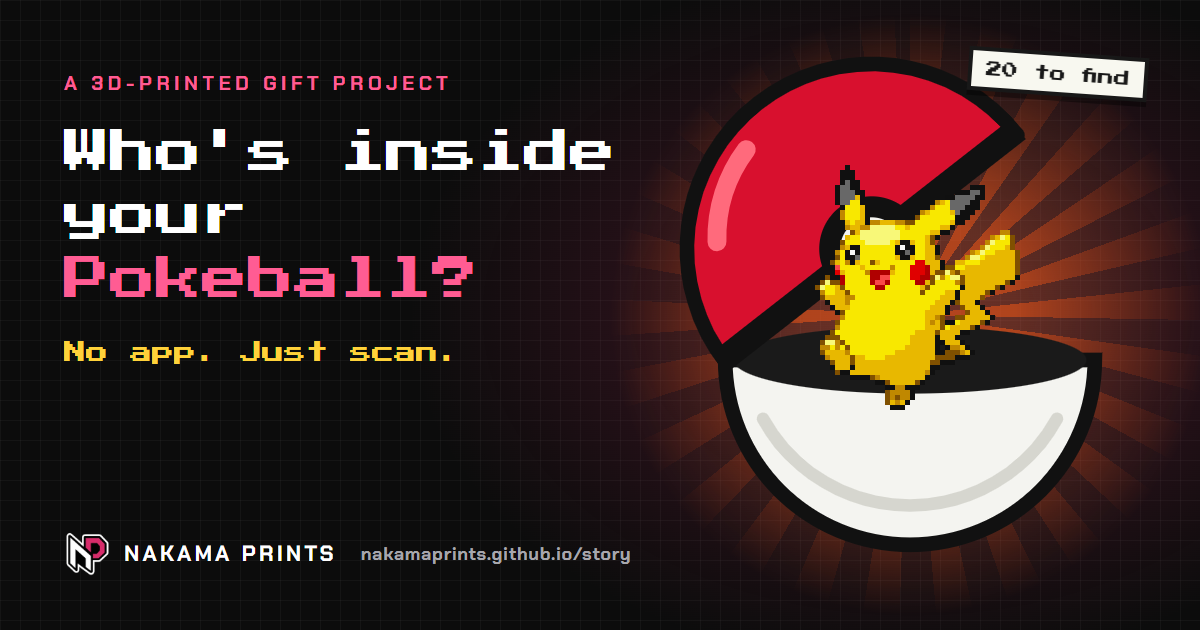
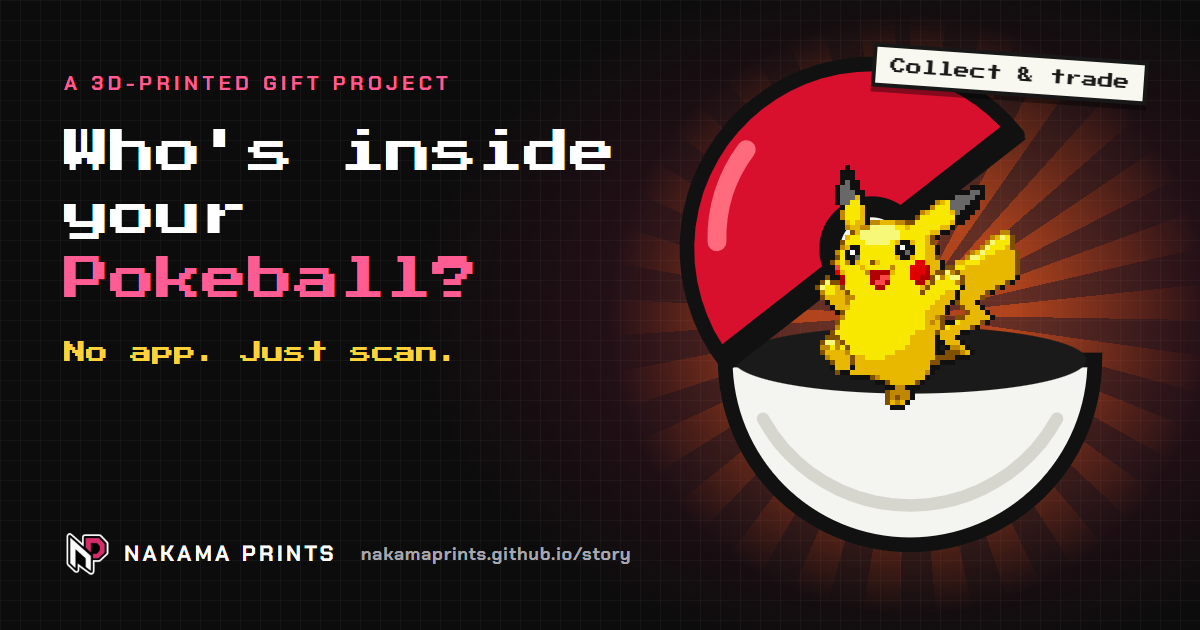
Story page: lead with the reel, drop the technical section, no fixed counts

Changed region(s): [[0.7092, 0.0603, 0.9558, 0.181]]

diff --git a/story/index.html b/story/index.html
@@ -15,7 +15,7 @@
   <meta property="og:site_name" content="Nakama Prints" />
   <meta property="og:url" content="https://nakamaprints.github.io/story/" />
   <meta property="og:title" content="Who's inside your Pokeball? No app. Just scan." />
-  <meta property="og:description" content="I 3D-print Pokeballs for friends and family. Scan the card, point at the coin inside, and an 8-bit Pokémon pops out in AR. Collect all 20 and trade the rest." />
+  <meta property="og:description" content="I 3D-print Pokeballs for friends and family. Scan the card, point at the coin inside, and an 8-bit Pokémon pops out in AR. Collect them all, hunt the rare ones and trade with friends." />
   <meta property="og:image" content="https://nakamaprints.github.io/story/og.png" />
   <meta property="og:image:width" content="1200" />
   <meta property="og:image:height" content="630" />
@@ -88,12 +88,25 @@
 
     <p class="gift-note"><b>Not for sale.</b> These Pokémon balls are gifts for my nakama (that's "friends" in Japanese). Try the demo, and if you'd want something like it, <a href="#want">tell me</a>.</p>
 
-    <!-- ============ 1. THE BALL ============ -->
+    <!-- ============ 1. REEL ============ -->
+    <section class="sec reel" id="reel">
+      <div class="reel-copy">
+        <p class="eyebrow">01 · The reel</p>
+        <h2>See it for real</h2>
+        <p class="sub">23 seconds, printer to Pokédex. Sound on for the Pokédex voice.</p>
+        <a class="btn btn-ghost" href="https://www.instagram.com/nakamaprints_in/" rel="noopener">More on Instagram</a>
+      </div>
+      <div class="phone reel-phone">
+        <video src="assets/reel.mp4" poster="assets/reel-poster.webp" controls playsinline preload="none" width="540" height="960" aria-label="Nakama Prints reel: the printed Pokeball, the card, the AR pop-out and the Pokédex"></video>
+      </div>
+    </section>
+
+    <!-- ============ 2. THE BALL ============ -->
     <section class="sec" id="story">
       <header class="sec-head">
-        <p class="eyebrow">01 · The ball</p>
+        <p class="eyebrow">02 · The ball</p>
         <h2>It starts on the printer</h2>
-        <p class="sub">Every ball is printed on my Bambu, one colour at a time, then put together by hand. And yes, it really opens.</p>
+        <p class="sub">Printed at home and put together by hand. And yes, it really opens.</p>
       </header>
 
       <div class="kit">
@@ -110,23 +123,23 @@
       <ol class="kit-list">
         <li>
           <div class="kit-ico"><img src="assets/ball-square.jpg" alt="" width="600" height="600" loading="lazy" /></div>
-          <div><h3>The Pokeball</h3><p>Red and white, printed in parts on a single-colour printer and assembled. It clicks open and shut.</p></div>
+          <div><h3>The Pokeball</h3><p>It clicks open and shut.</p></div>
         </li>
         <li>
           <div class="kit-ico card-ico"><img src="assets/card-front.webp" alt="" width="480" height="640" loading="lazy" /></div>
-          <div><h3>The "Who's that Pokémon?" card</h3><p>A 60 × 80 mm QR card that comes with the ball. Each card is one of a kind.</p></div>
+          <div><h3>The "Who's that Pokémon?" card</h3><p>Comes with the ball. Every card is one of a kind.</p></div>
         </li>
         <li>
           <div class="kit-ico"><img src="assets/np-coin.webp" alt="" width="400" height="400" loading="lazy" /></div>
-          <div><h3>The NP coin</h3><p>A 40 mm coin rattling around inside the ball. This is where your Pokémon will stand.</p></div>
+          <div><h3>The NP coin</h3><p>Hiding inside the ball. This is where your Pokémon will stand.</p></div>
         </li>
       </ol>
     </section>
 
-    <!-- ============ 2. HOW A BALL OPENS ============ -->
+    <!-- ============ 3. HOW A BALL OPENS ============ -->
     <section class="sec" id="how">
       <header class="sec-head">
-        <p class="eyebrow">02 · The magic bit</p>
+        <p class="eyebrow">03 · The magic bit</p>
         <h2>Scan. Release. <span class="pink">Pop!</span></h2>
         <p class="sub">Four taps from a closed ball to a Pokémon in your Pokédex. These are real screens from the app.</p>
       </header>
@@ -194,7 +207,7 @@
           <div class="step-copy">
             <span class="num">4</span>
             <h3>Add it to your Pokédex</h3>
-            <p>One tap on <b>ADD TO MY POKÉDEX</b> and it's yours. No sign-up, no password. Want it safe on a new phone later? Save with Google whenever you like.</p>
+            <p>One tap on <b>ADD TO MY POKÉDEX</b> and it's yours. Then go find the next one.</p>
           </div>
           <div class="step-art phones">
             <div class="phone tilt-l"><img src="assets/screen-add.webp" alt="The Pokédex entry for Pikachu with an Add to my Pokédex button" width="520" height="1125" loading="lazy" /></div>
@@ -204,7 +217,7 @@
       </div>
     </section>
 
-    <!-- ============ 3. WHO'S THAT POKEMON ============ -->
+    <!-- ============ WHO'S THAT POKEMON ============ -->
     <section class="wtp" id="guess" aria-labelledby="wtpTitle">
       <div class="wtp-inner">
         <h2 class="wtp-title" id="wtpTitle"><span class="w1">Who's</span> <span class="q">?</span> <span class="w1">that</span><span class="w2">Pokémon</span></h2>
@@ -212,17 +225,17 @@
           <canvas class="px wtp-sil" id="wtpSil" width="72" height="72" aria-hidden="true"></canvas>
           <div class="wtp-live" id="wtpLive"></div>
         </div>
-        <p class="wtp-answer" id="wtpAnswer" aria-live="polite">Every ball hides one of 20. Got a guess?</p>
+        <p class="wtp-answer" id="wtpAnswer" aria-live="polite">Every ball hides a different one. Got a guess?</p>
         <button class="btn btn-yellow" id="wtpBtn" type="button">Reveal!</button>
       </div>
     </section>
 
-    <!-- ============ 4. COLLECT 20 ============ -->
+    <!-- ============ 4. COLLECT ============ -->
     <section class="sec" id="collect">
       <header class="sec-head">
-        <p class="eyebrow">03 · My Pokédex</p>
+        <p class="eyebrow">04 · My Pokédex</p>
         <h2>Fill your Pokédex</h2>
-        <p class="sub">20 Gen 1 Pokémon to find: 14 regulars and 6 rares. The ones you haven't met yet wait as dark silhouettes. Tap one to see who's hiding.</p>
+        <p class="sub">Gen 1 Pokémon to find, with rare ones hiding among them. The ones you haven't met yet wait as dark silhouettes. Tap one to see who's hiding.</p>
       </header>
 
       <div class="pdx" id="pdx">
@@ -243,12 +256,12 @@
         </div>
         <div class="master" id="master" hidden>
           <div class="master-card">
-            <p class="master-kicker">★ 20 of 20 ★</p>
+            <p class="master-kicker">★ Complete ★</p>
             <p class="master-title">Gen 1 Master!</p>
-            <p class="master-sub">You found all 20, including all 6 rares. Your trainer card goes gold.</p>
+            <p class="master-sub">You found every one, rares included. Your trainer card goes gold.</p>
             <div class="tcard">
               <img src="../assets/np-logo.png" alt="" width="40" height="40" />
-              <div><b>Trainer NP-1410</b><span>Gen 1 · 20/20 · ★ 6/6</span></div>
+              <div><b>Trainer NP-1410</b><span>Gen 1 · Complete · ★ All rares</span></div>
             </div>
             <button class="btn btn-sm" id="masterClose" type="button">Nice!</button>
           </div>
@@ -260,9 +273,9 @@
     <!-- ============ 5. RARES ============ -->
     <section class="sec rares" id="rares">
       <div class="rares-copy">
-        <p class="eyebrow gold">04 · Rares</p>
+        <p class="eyebrow gold">05 · Rares</p>
         <h2>Some balls go <span class="goldtxt">gold</span></h2>
-        <p class="sub">Six rares are hiding in the set. When one comes out you get a gold flash, a <b class="goldtxt">★ RARE ★</b> stamp, a little fanfare, and twinkles that never quite stop.</p>
+        <p class="sub">Rare ones are hiding in the set. When one comes out you get a gold flash, a <b class="goldtxt">★ RARE ★</b> stamp, a little fanfare, and twinkles that never quite stop.</p>
         <ul class="rare-list" id="rareList"></ul>
       </div>
       <div class="phones rare-phones">
@@ -274,7 +287,7 @@
     <!-- ============ 6. TRADE ============ -->
     <section class="sec" id="trade">
       <header class="sec-head">
-        <p class="eyebrow">05 · Trading</p>
+        <p class="eyebrow">06 · Trading</p>
         <h2>Got two Squirtles? <span class="pink">Trade one.</span></h2>
         <p class="sub">Duplicates are perfect for trading. Every trainer gets a code like NP-1410.</p>
       </header>
@@ -307,40 +320,12 @@
       </div>
     </section>
 
-    <!-- ============ 7. REEL ============ -->
-    <section class="sec reel" id="reel">
-      <div class="reel-copy">
-        <p class="eyebrow">06 · The reel</p>
-        <h2>See it for real</h2>
-        <p class="sub">23 seconds, printer to Pokédex. Sound on for the Pokédex voice.</p>
-        <a class="btn btn-ghost" href="https://www.instagram.com/nakamaprints_in/" rel="noopener">More on Instagram</a>
-      </div>
-      <div class="phone reel-phone">
-        <video src="assets/reel.mp4" poster="assets/reel-poster.webp" controls playsinline preload="none" width="540" height="960" aria-label="Nakama Prints reel: the printed Pokeball, the card, the AR pop-out and the Pokédex"></video>
-      </div>
-    </section>
 
-    <!-- ============ 8. HOW IT'S BUILT ============ -->
-    <section class="sec" id="built">
-      <header class="sec-head">
-        <p class="eyebrow">07 · For makers and tinkerers</p>
-        <h2>How it works</h2>
-        <p class="sub">No game engine, no app store. Just a printer, some paper and a web page.</p>
-      </header>
-      <div class="cards">
-        <article class="tcell"><h3>Web AR, no app</h3><p>The page runs in your phone's browser with A-Frame and MindAR image tracking. The camera feed never leaves the phone.</p></article>
-        <article class="tcell"><h3>One coin, many cards</h3><p>Every ball has the same NP coin as its AR marker. The card's QR carries a unique code, so the card decides who pops out.</p></article>
-        <article class="tcell"><h3>Hand-cleaned 8-bit</h3><p>Each Pokémon is a pixel sprite animated on a tiny canvas: blink, bob, hop and its own move. Every Pokémon on this page runs on that same engine.</p></article>
-        <article class="tcell"><h3>A Pokédex in Supabase</h3><p>Your first add quietly makes a guest account. Database rules make sure each card has one owner. Save with Google any time.</p></article>
-        <article class="tcell"><h3>The real Pokédex voice</h3><p>Short clips of the anime Pokédex, with the entry typing out in sync like the show.</p></article>
-        <article class="tcell"><h3>Printed at home</h3><p>Balls printed in parts on a single-colour Bambu and assembled. Cards and coins printed and cut by hand.</p></article>
-      </div>
-    </section>
 
-    <!-- ============ 9. WANT ONE? (interest check) ============ -->
+    <!-- ============ 7. WANT ONE? (interest check) ============ -->
     <section class="sec want" id="want">
       <header class="sec-head">
-        <p class="eyebrow">08 · What's next</p>
+        <p class="eyebrow">07 · What's next</p>
         <h2>Want one of <span class="pink">your own?</span></h2>
         <p class="sub">The Pokémon version stays a gift for my friends. But the idea works for any collectible, so I'm thinking about making it real with my own original <b>Nakama creatures</b>. Would you want one?</p>
       </header>
@@ -382,7 +367,7 @@
       </div>
     </section>
 
-    <!-- ============ 10. OUTRO ============ -->
+    <!-- ============ 8. OUTRO ============ -->
     <section class="outro">
       <div class="outro-row" id="outroRow" aria-hidden="true"></div>
       <h2>Every ball, <span class="pink">a surprise.</span></h2>

diff --git a/story/js/story.js b/story/js/story.js
@@ -247,7 +247,7 @@
     wtp.classList.add('revealed');
     const rare = isRare(wtpId);
     wtpActor = live(wtpId, wtpLive, rare);
-    type(wtpAnswer, 'It\'s ' + S[wtpId].name + '!' + (rare ? ' ★ One of the 6 rares.' : ''));
+    type(wtpAnswer, 'It\'s ' + S[wtpId].name + '!' + (rare ? ' ★ A rare one!' : ''));
     wtpBtn.textContent = 'Another one ▸';
   });
   wtpNew();
